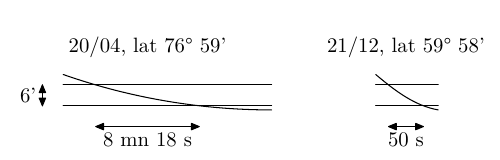
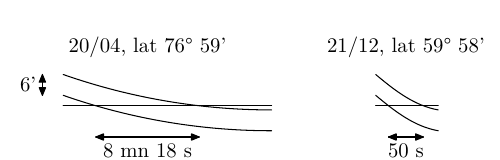
Better diagram: the solar course, not the horizon line, bobs up and down.

diff --git a/doc/sunset-slope.tex b/doc/sunset-slope.tex
@@ -29,38 +29,38 @@
 \begin{mplibcode}
 beginfig(1);
 
-path h_arctic, l_arctic, s_arctic;
-h_arctic = (  0, 0) -- (100, 0);
-l_arctic = (  0,10) -- (100,10);
-s_arctic = (  0,15) .. {dir 0}(100,-2)  ;
-draw h_arctic;
+path h_arctic, l_arctic, sl_arctic, sh_arctic;
+l_arctic = (  0, 0) -- (100, 0);
+sl_arctic = (  0,5) .. {dir 0}(100,-12)  ;
+sh_arctic = sl_arctic shifted (0,10);
 draw l_arctic;
-draw s_arctic;
+draw sl_arctic;
+draw sh_arctic;
 pair zda, zfa, zma;
-zda = h_arctic intersectionpoint s_arctic;
-zfa = l_arctic intersectionpoint s_arctic;
-drawdblarrow (xpart zda, -10) -- (xpart zfa, -10);
+zda = l_arctic intersectionpoint sl_arctic;
+zfa = l_arctic intersectionpoint sh_arctic;
+drawdblarrow (xpart zda, -15) -- (xpart zfa, -15);
 zma = 0.5 * (zda + zfa);
-label.bot(btex 8 mn 18 s          etex, (xpart zma, -10));
+label.bot(btex 8 mn 18 s          etex, (xpart zma, -15));
 label.top(btex 20/04, lat 76° 59' etex, (xpart zma,  20));
 
-path h_greenw, l_greenw, s_greenw;
-h_greenw = (150, 0) -- (180, 0);                   
-l_greenw = (150,10) -- (180,10);                   
-s_greenw = (150,15){dir -40} .. { dir -10}(180,-2);
-draw h_greenw;
+path h_greenw, l_greenw, sl_greenw, sh_greenw;
+l_greenw = (150, 0) -- (180, 0);                   
+sl_greenw = (150,5){dir -40} .. { dir -10}(180,-12);
+sh_greenw = sl_greenw shifted (0,10);
 draw l_greenw;
-draw s_greenw;
+draw sl_greenw;
+draw sh_greenw;
 pair zdg, zfg, zmg;
-zdg = h_greenw intersectionpoint s_greenw;
-zfg = l_greenw intersectionpoint s_greenw;
-drawdblarrow (xpart zdg, -10) -- (xpart zfg, -10);
+zdg = l_greenw intersectionpoint sl_greenw;
+zfg = l_greenw intersectionpoint sh_greenw;
+drawdblarrow (xpart zdg, -15) -- (xpart zfg, -15);
 zmg = 0.5 * (zdg + zfg);
-label.bot(btex 50 s               etex, (xpart zmg, -10));
+label.bot(btex 50 s               etex, (xpart zmg, -15));
 label.top(btex 21/12, lat 59° 58' etex, (xpart zmg,  20));
 
-drawdblarrow (-10,0) -- (-10,10);
-label.lft(btex 6' etex, (-10,5));
+drawdblarrow (-10,5) -- (-10,15);
+label.lft(btex 6' etex, (-10,10));
 
 endfig;
 \end{mplibcode}
